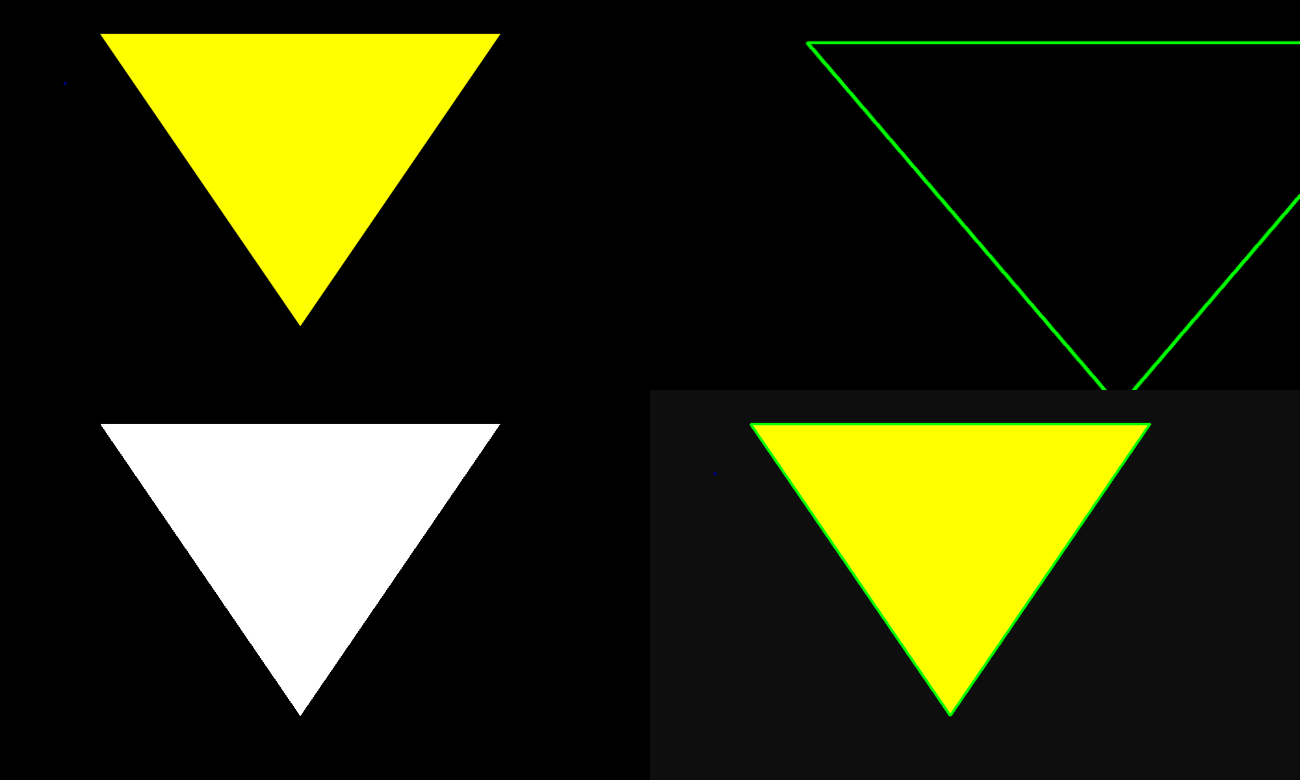
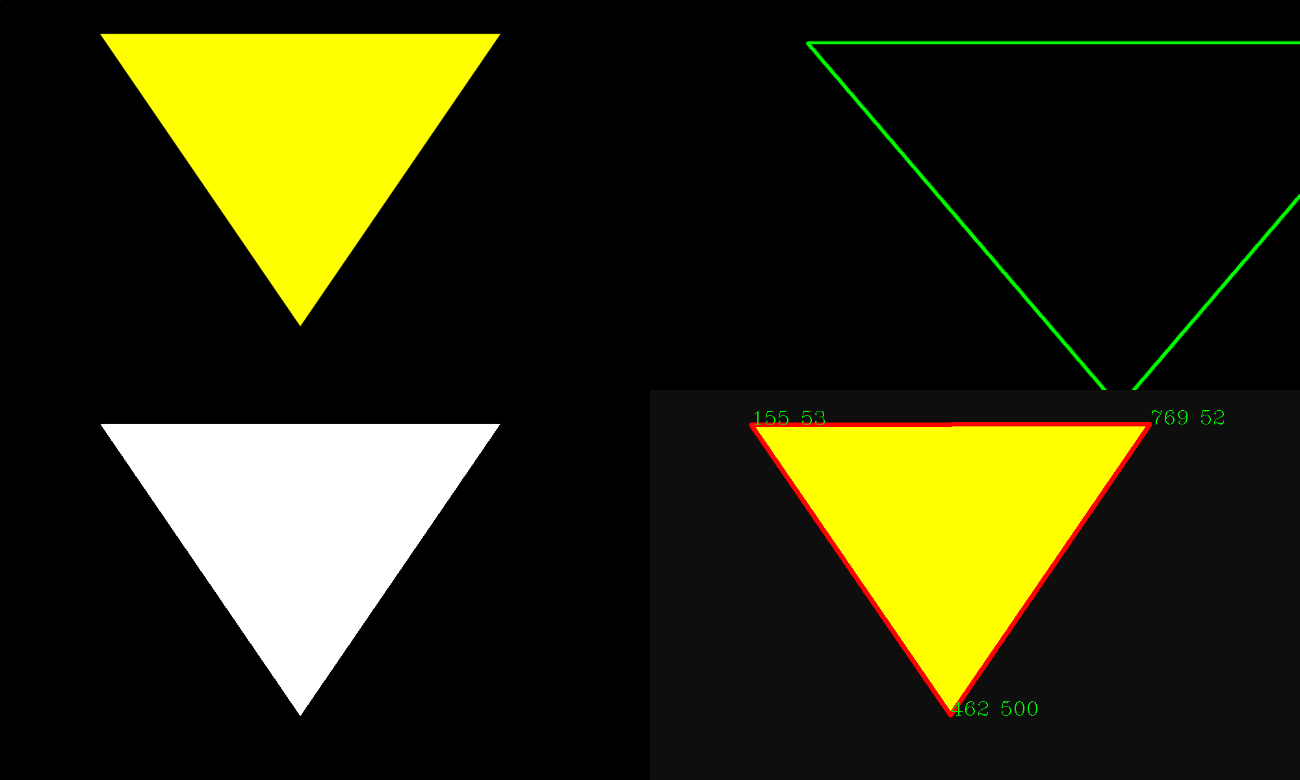
Tegne kontur på bildet. Å produsere en mer "rett" kontur txt

diff --git a/William_sitt_lekerom/main_v2_copy.py b/William_sitt_lekerom/main_v2_copy.py
@@ -5,8 +5,9 @@ from Stacking_func import stackImages
 frameWidth = 640
 frameHeight = 480
 image = True
-image_source = "Triangle.png"
+image_source = "1Triangle.png"
 camera_source = 0
+font = cv2.FONT_HERSHEY_COMPLEX
 
 
 def empty(a):
@@ -59,6 +60,32 @@ while True:
     cv2.drawContours(image=blank_image, contours=contours, contourIdx=-1, color=(0, 255, 0), thickness=2,
                      lineType=cv2.LINE_AA)
 
+    pointers_open = 0
+
+    for cnt in contours :
+        approx = cv2.approxPolyDP(cnt, 0.009 * cv2.arcLength(cnt, True), True)
+        cv2.drawContours(image_copy, [approx], 0, (0, 0, 255), 5)
+        n = approx.ravel()
+
+    for j in n:
+        if (pointers_open % 2 == 0):
+            x = n[pointers_open]
+            y = n[pointers_open + 1]
+
+            # String containing the co-ordinates.
+            stringpos = str(x) + " " + str(y)
+
+            if pointers_open == 0:
+                # text on topmost co-ordinate.
+                cv2.putText(image_copy, stringpos, (x, y),
+                            font, 1, (0, 255, 0))
+            else:
+                # text on remaining co-ordinates.
+                cv2.putText(image_copy, stringpos, (x, y),
+                            font, 1, (0, 255, 0))
+        pointers_open = pointers_open + 1
+
+
     imgStack = stackImages(0.65, ([frame, blank_image],
                                   [thresh, image_copy]))
     cv2.imshow("Output", imgStack)
@@ -68,7 +95,7 @@ while True:
         cv2.imwrite("./main_v2.png", imgStack)
         file_cont = open("./main_copytst2_contours.txt", "a")
         print("Saving Contours...")
-        file_cont.write(repr(contours))
+        file_cont.write(repr(approx))
         file_cont.close()
         print("Quitting...")
         break

diff --git a/William_sitt_lekerom/Les_kontur_xy.py b/William_sitt_lekerom/Les_kontur_xy.py
@@ -1,6 +1,6 @@
 import numpy as np
 import cv2
-image = "Triangle.png"
+image = "1Triangle.png"
 
 # Reading image
 font = cv2.FONT_HERSHEY_COMPLEX
@@ -50,6 +50,7 @@ for cnt in contours :
         i = i + 1
 # Showing the final image.
 cv2.imshow('image2', img2)
+
 # Exiting the window if 'q' is pressed on the    keyboard.
 if cv2.waitKey(0) & 0xFF == ord('q'):
     cv2.destroyAllWindows()
